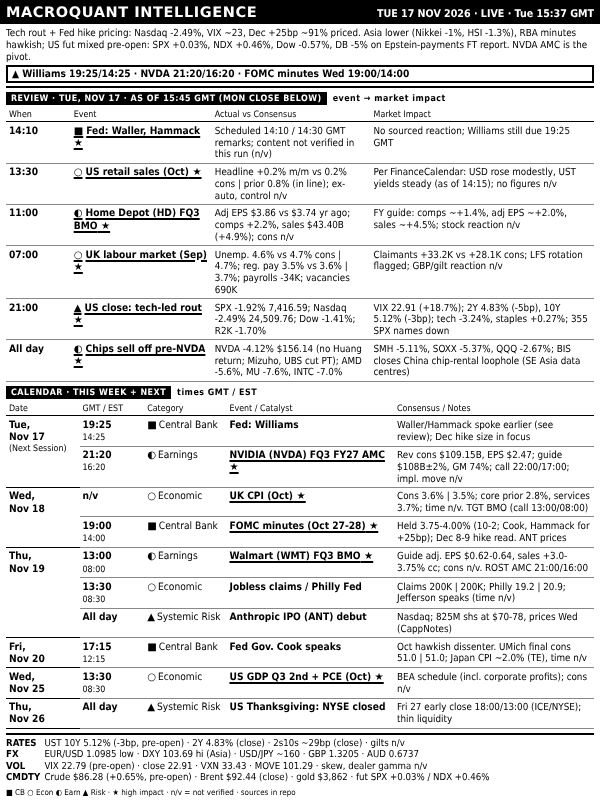
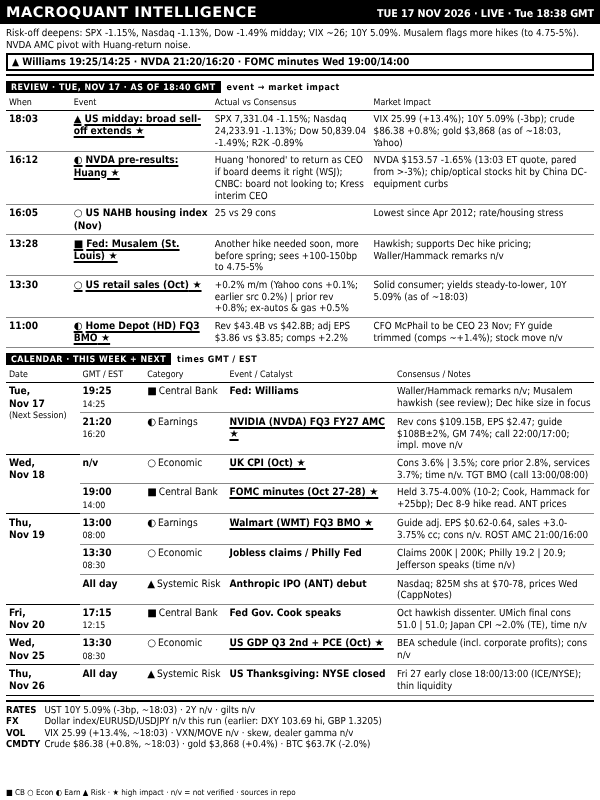
dashboard: TUE 17 NOV 2026 LIVE 18:40
Claude-Session: https://claude.ai/code/session_016SJqa7HUatz5a6CXfbBCkC

Changed region(s): [[0.0, 0.0312, 0.99, 1.0], [0.78, 0.9688, 0.81, 1.0]]

diff --git a/out/dashboard.html b/out/dashboard.html
@@ -38,12 +38,12 @@ table.bd{border-collapse:collapse;width:100%;table-layout:fixed;margin-top:1px}
 </style></head><body>
 <div id="root">
  <div class="hdr"><span class="t">MACROQUANT INTELLIGENCE</span>
-  <span class="r">TUE 17 NOV 2026 · LIVE · Tue 15:37 GMT</span></div>
- <div class="ban"><div class="rg">Tech rout + Fed hike pricing: Nasdaq -2.49%, VIX ~23, Dec +25bp ~91% priced. Asia lower (Nikkei -1%, HSI -1.3%), RBA minutes hawkish; US fut mixed pre-open: SPX +0.03%, NDX +0.46%, Dow -0.57%, DB -5% on Epstein-payments FT report. NVDA AMC is the pivot.</div><div class="al">▲ Williams 19:25/14:25 · NVDA 21:20/16:20 · FOMC minutes Wed 19:00/14:00</div></div>
- <div class="sl"><span>REVIEW · TUE, NOV 17 · AS OF 15:45 GMT (MON CLOSE BELOW)</span>event → market impact</div><table class="bd rv"><colgroup><col style="width:11%"><col style="width:24%"><col style="width:27%"><col></colgroup><tr><th>When</th><th>Event</th><th>Actual vs Consensus</th><th>Market Impact</th></tr><tr class="h"><td class="tm"><b>14:10</b></td><td class="ev"><i>■</i>Fed: Waller, Hammack</td><td class="ac">Scheduled 14:10 / 14:30 GMT remarks; content not verified in this run (n/v)</td><td class="nt">No sourced reaction; Williams still due 19:25 GMT</td></tr><tr class="h"><td class="tm"><b>13:30</b></td><td class="ev"><i>○</i>US retail sales (Oct)</td><td class="ac">Headline +0.2% m/m vs 0.2% cons | prior 0.8% (in line); ex-auto, control n/v</td><td class="nt">Per FinanceCalendar: USD rose modestly, UST yields steady (as of 14:15); no figures n/v</td></tr><tr class="h"><td class="tm"><b>11:00</b></td><td class="ev"><i>◐</i>Home Depot (HD) FQ3 BMO</td><td class="ac">Adj EPS $3.86 vs $3.74 yr ago; comps +2.2%, sales $43.40B (+4.9%); cons n/v</td><td class="nt">FY guide: comps ~+1.4%, adj EPS ~+2.0%, sales ~+4.5%; stock reaction n/v</td></tr><tr class="h"><td class="tm"><b>07:00</b></td><td class="ev"><i>○</i>UK labour market (Sep)</td><td class="ac">Unemp. 4.6% vs 4.7% cons | 4.7%; reg. pay 3.5% vs 3.6% | 3.7%; payrolls -34K; vacancies 690K</td><td class="nt">Claimants +33.2K vs +28.1K cons; LFS rotation flagged; GBP/gilt reaction n/v</td></tr><tr class="h"><td class="tm"><b>21:00</b></td><td class="ev"><i>▲</i>US close: tech-led rout</td><td class="ac">SPX -1.92% 7,416.59; Nasdaq -2.49% 24,509.76; Dow -1.41%; R2K -1.70%</td><td class="nt">VIX 22.91 (+18.7%); 2Y 4.83% (-5bp), 10Y 5.12% (-3bp); tech -3.24%, staples +0.27%; 355 SPX names down</td></tr><tr class="h"><td class="tm"><b>All day</b></td><td class="ev"><i>◐</i>Chips sell off pre-NVDA</td><td class="ac">NVDA -4.12% $156.14 (no Huang return; Mizuho, UBS cut PT); AMD -5.6%, MU -7.6%, INTC -7.0%</td><td class="nt">SMH -5.11%, SOXX -5.37%, QQQ -2.67%; BIS closes China chip-rental loophole (SE Asia data centres)</td></tr></table>
+  <span class="r">TUE 17 NOV 2026 · LIVE · Tue 18:38 GMT</span></div>
+ <div class="ban"><div class="rg">Risk-off deepens: SPX -1.15%, Nasdaq -1.13%, Dow -1.49% midday; VIX ~26; 10Y 5.09%. Musalem flags more hikes (to 4.75-5%). NVDA AMC pivot with Huang-return noise.</div><div class="al">▲ Williams 19:25/14:25 · NVDA 21:20/16:20 · FOMC minutes Wed 19:00/14:00</div></div>
+ <div class="sl"><span>REVIEW · TUE, NOV 17 · AS OF 18:40 GMT</span>event → market impact</div><table class="bd rv"><colgroup><col style="width:11%"><col style="width:24%"><col style="width:27%"><col></colgroup><tr><th>When</th><th>Event</th><th>Actual vs Consensus</th><th>Market Impact</th></tr><tr class="h"><td class="tm"><b>18:03</b></td><td class="ev"><i>▲</i>US midday: broad sell-off extends</td><td class="ac">SPX 7,331.04 -1.15%; Nasdaq 24,233.91 -1.13%; Dow 50,839.04 -1.49%; R2K -0.89%</td><td class="nt">VIX 25.99 (+13.4%); 10Y 5.09% (-3bp); crude $86.38 +0.8%; gold $3,868 (as of ~18:03, Yahoo)</td></tr><tr class="h"><td class="tm"><b>16:12</b></td><td class="ev"><i>◐</i>NVDA pre-results: Huang</td><td class="ac">Huang 'honored' to return as CEO if board deems it right (WSJ); CNBC: board not looking to; Kress interim CEO</td><td class="nt">NVDA $153.57 -1.65% (13:03 ET quote, pared from &gt;-3%); chip/optical stocks hit by China DC-equipment curbs</td></tr><tr><td class="tm"><b>16:05</b></td><td class="ev"><i>○</i>US NAHB housing index (Nov)</td><td class="ac">25 vs 29 cons</td><td class="nt">Lowest since Apr 2012; rate/housing stress</td></tr><tr class="h"><td class="tm"><b>13:28</b></td><td class="ev"><i>■</i>Fed: Musalem (St. Louis)</td><td class="ac">Another hike needed soon, more before spring; sees +100-150bp to 4.75-5%</td><td class="nt">Hawkish; supports Dec hike pricing; Waller/Hammack remarks n/v</td></tr><tr class="h"><td class="tm"><b>13:30</b></td><td class="ev"><i>○</i>US retail sales (Oct)</td><td class="ac">+0.2% m/m (Yahoo cons +0.1%; earlier src 0.2%) | prior rev +0.8%; ex-autos &amp; gas +0.5%</td><td class="nt">Solid consumer; yields steady-to-lower, 10Y 5.09% (as of ~18:03)</td></tr><tr class="h"><td class="tm"><b>11:00</b></td><td class="ev"><i>◐</i>Home Depot (HD) FQ3 BMO</td><td class="ac">Rev $43.4B vs $42.8B; adj EPS $3.86 vs $3.85; comps +2.2%</td><td class="nt">CFO McPhail to be CEO 23 Nov; FY guide trimmed (comps ~+1.4%); stock move n/v</td></tr></table>
  <div class="sl"><span>CALENDAR · THIS WEEK + NEXT</span>times GMT / EST</div>
- <table class="bd"><colgroup><col style="width:12.5%"><col style="width:11%"><col style="width:14%"><col style="width:28.5%"><col></colgroup><tr><th>Date</th><th>GMT / EST</th><th>Category</th><th>Event / Catalyst</th><th>Consensus / Notes</th></tr><tr class="g0"><td class="dt" rowspan="2">Tue,<br>Nov&nbsp;17<span class="tg">(Next Session)</span></td><td class="tm"><b>19:25</b><span>14:25</span></td><td class="ct"><i>■</i>Central Bank</td><td class="ev">Fed: Williams</td><td class="nt">Waller/Hammack spoke earlier (see review); Dec hike size in focus</td></tr><tr class="h"><td class="tm"><b>21:20</b><span>16:20</span></td><td class="ct"><i>◐</i>Earnings</td><td class="ev">NVIDIA (NVDA) FQ3 FY27 AMC</td><td class="nt">Rev cons $109.15B, EPS $2.47; guide $108B±2%, GM 74%; call 22:00/17:00; impl. move n/v</td></tr><tr class="g0 h"><td class="dt" rowspan="2">Wed,<br>Nov&nbsp;18</td><td class="tm"><b>n/v</b></td><td class="ct"><i>○</i>Economic</td><td class="ev">UK CPI (Oct)</td><td class="nt">Cons 3.6% | 3.5%; core prior 2.8%, services 3.7%; time n/v. TGT BMO (call 13:00/08:00)</td></tr><tr class="h"><td class="tm"><b>19:00</b><span>14:00</span></td><td class="ct"><i>■</i>Central Bank</td><td class="ev">FOMC minutes (Oct 27-28)</td><td class="nt">Held 3.75-4.00% (10-2; Cook, Hammack for +25bp); Dec 8-9 hike read. ANT prices</td></tr><tr class="g0 h"><td class="dt" rowspan="3">Thu,<br>Nov&nbsp;19</td><td class="tm"><b>13:00</b><span>08:00</span></td><td class="ct"><i>◐</i>Earnings</td><td class="ev">Walmart (WMT) FQ3 BMO</td><td class="nt">Guide adj. EPS $0.62-0.64, sales +3.0-3.75% cc; cons n/v. ROST AMC 21:00/16:00</td></tr><tr class=""><td class="tm"><b>13:30</b><span>08:30</span></td><td class="ct"><i>○</i>Economic</td><td class="ev">Jobless claims / Philly Fed</td><td class="nt">Claims 200K | 200K; Philly 19.2 | 20.9; Jefferson speaks (time n/v)</td></tr><tr class=""><td class="tm"><b>All day</b></td><td class="ct"><i>▲</i>Systemic Risk</td><td class="ev">Anthropic IPO (ANT) debut</td><td class="nt">Nasdaq; 825M shs at $70-78, prices Wed (CappNotes)</td></tr><tr class="g0"><td class="dt" rowspan="1">Fri,<br>Nov&nbsp;20</td><td class="tm"><b>17:15</b><span>12:15</span></td><td class="ct"><i>■</i>Central Bank</td><td class="ev">Fed Gov. Cook speaks</td><td class="nt">Oct hawkish dissenter. UMich final cons 51.0 | 51.0; Japan CPI ~2.0% (TE), time n/v</td></tr><tr class="g0 h"><td class="dt" rowspan="1">Wed,<br>Nov&nbsp;25</td><td class="tm"><b>13:30</b><span>08:30</span></td><td class="ct"><i>○</i>Economic</td><td class="ev">US GDP Q3 2nd + PCE (Oct)</td><td class="nt">BEA schedule (incl. corporate profits); cons n/v</td></tr><tr class="g0"><td class="dt" rowspan="1">Thu,<br>Nov&nbsp;26</td><td class="tm"><b>All day</b></td><td class="ct"><i>▲</i>Systemic Risk</td><td class="ev">US Thanksgiving: NYSE closed</td><td class="nt">Fri 27 early close 18:00/13:00 (ICE/NYSE); thin liquidity</td></tr></table>
- <div class="lv"><div><b>RATES</b>UST 10Y 5.12% (-3bp, pre-open) · 2Y 4.83% (close) · 2s10s ~29bp (close) · gilts n/v</div><div><b>FX</b>EUR/USD 1.0985 low · DXY 103.69 hi (Asia) · USD/JPY ~160 · GBP 1.3205 · AUD 0.6737</div><div><b>VOL</b>VIX 22.79 (pre-open) · close 22.91 · VXN 33.43 · MOVE 101.29 · skew, dealer gamma n/v</div><div><b>CMDTY</b>Crude $86.28 (+0.65%, pre-open) · Brent $92.44 (close) · gold $3,862 · fut SPX +0.03% / NDX +0.46%</div></div>
+ <table class="bd"><colgroup><col style="width:12.5%"><col style="width:11%"><col style="width:14%"><col style="width:28.5%"><col></colgroup><tr><th>Date</th><th>GMT / EST</th><th>Category</th><th>Event / Catalyst</th><th>Consensus / Notes</th></tr><tr class="g0"><td class="dt" rowspan="2">Tue,<br>Nov&nbsp;17<span class="tg">(Next Session)</span></td><td class="tm"><b>19:25</b><span>14:25</span></td><td class="ct"><i>■</i>Central Bank</td><td class="ev">Fed: Williams</td><td class="nt">Waller/Hammack remarks n/v; Musalem hawkish (see review); Dec hike size in focus</td></tr><tr class="h"><td class="tm"><b>21:20</b><span>16:20</span></td><td class="ct"><i>◐</i>Earnings</td><td class="ev">NVIDIA (NVDA) FQ3 FY27 AMC</td><td class="nt">Rev cons $109.15B, EPS $2.47; guide $108B±2%, GM 74%; call 22:00/17:00; impl. move n/v</td></tr><tr class="g0 h"><td class="dt" rowspan="2">Wed,<br>Nov&nbsp;18</td><td class="tm"><b>n/v</b></td><td class="ct"><i>○</i>Economic</td><td class="ev">UK CPI (Oct)</td><td class="nt">Cons 3.6% | 3.5%; core prior 2.8%, services 3.7%; time n/v. TGT BMO (call 13:00/08:00)</td></tr><tr class="h"><td class="tm"><b>19:00</b><span>14:00</span></td><td class="ct"><i>■</i>Central Bank</td><td class="ev">FOMC minutes (Oct 27-28)</td><td class="nt">Held 3.75-4.00% (10-2; Cook, Hammack for +25bp); Dec 8-9 hike read. ANT prices</td></tr><tr class="g0 h"><td class="dt" rowspan="3">Thu,<br>Nov&nbsp;19</td><td class="tm"><b>13:00</b><span>08:00</span></td><td class="ct"><i>◐</i>Earnings</td><td class="ev">Walmart (WMT) FQ3 BMO</td><td class="nt">Guide adj. EPS $0.62-0.64, sales +3.0-3.75% cc; cons n/v. ROST AMC 21:00/16:00</td></tr><tr class=""><td class="tm"><b>13:30</b><span>08:30</span></td><td class="ct"><i>○</i>Economic</td><td class="ev">Jobless claims / Philly Fed</td><td class="nt">Claims 200K | 200K; Philly 19.2 | 20.9; Jefferson speaks (time n/v)</td></tr><tr class=""><td class="tm"><b>All day</b></td><td class="ct"><i>▲</i>Systemic Risk</td><td class="ev">Anthropic IPO (ANT) debut</td><td class="nt">Nasdaq; 825M shs at $70-78, prices Wed (CappNotes)</td></tr><tr class="g0"><td class="dt" rowspan="1">Fri,<br>Nov&nbsp;20</td><td class="tm"><b>17:15</b><span>12:15</span></td><td class="ct"><i>■</i>Central Bank</td><td class="ev">Fed Gov. Cook speaks</td><td class="nt">Oct hawkish dissenter. UMich final cons 51.0 | 51.0; Japan CPI ~2.0% (TE), time n/v</td></tr><tr class="g0 h"><td class="dt" rowspan="1">Wed,<br>Nov&nbsp;25</td><td class="tm"><b>13:30</b><span>08:30</span></td><td class="ct"><i>○</i>Economic</td><td class="ev">US GDP Q3 2nd + PCE (Oct)</td><td class="nt">BEA schedule (incl. corporate profits); cons n/v</td></tr><tr class="g0"><td class="dt" rowspan="1">Thu,<br>Nov&nbsp;26</td><td class="tm"><b>All day</b></td><td class="ct"><i>▲</i>Systemic Risk</td><td class="ev">US Thanksgiving: NYSE closed</td><td class="nt">Fri 27 early close 18:00/13:00 (ICE/NYSE); thin liquidity</td></tr></table>
+ <div class="lv"><div><b>RATES</b>UST 10Y 5.09% (-3bp, ~18:03) · 2Y n/v · gilts n/v</div><div><b>FX</b>Dollar index/EURUSD/USDJPY n/v this run (earlier: DXY 103.69 hi, GBP 1.3205)</div><div><b>VOL</b>VIX 25.99 (+13.4%, ~18:03) · VXN/MOVE n/v · skew, dealer gamma n/v</div><div><b>CMDTY</b>Crude $86.38 (+0.8%, ~18:03) · gold $3,868 (+0.4%) · BTC $63.7K (-2.0%)</div></div>
 </div>
 <div class="foot">■ CB ○ Econ ◐ Earn ▲ Risk · ★ high impact · n/v = not verified · sources in repo</div>
 </body></html>
